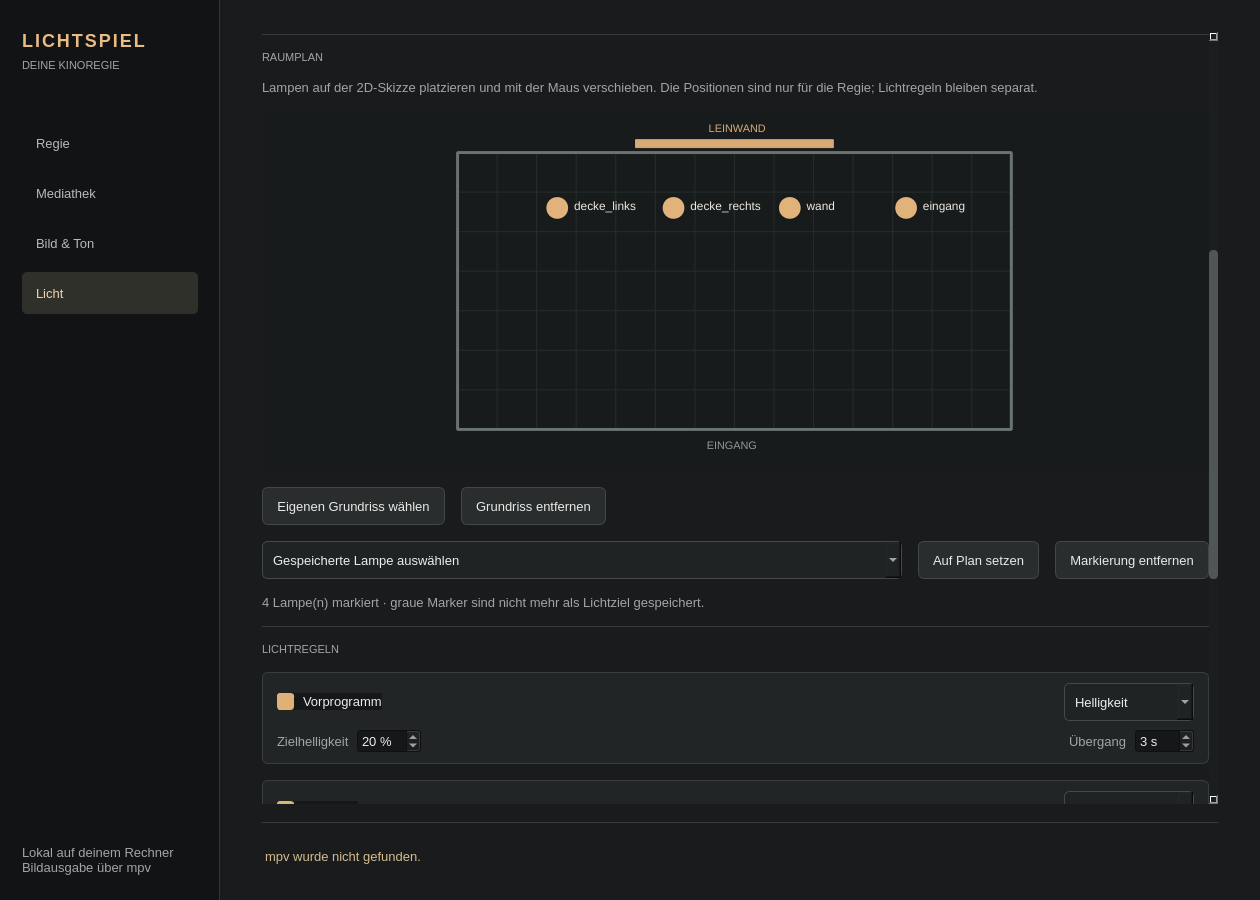
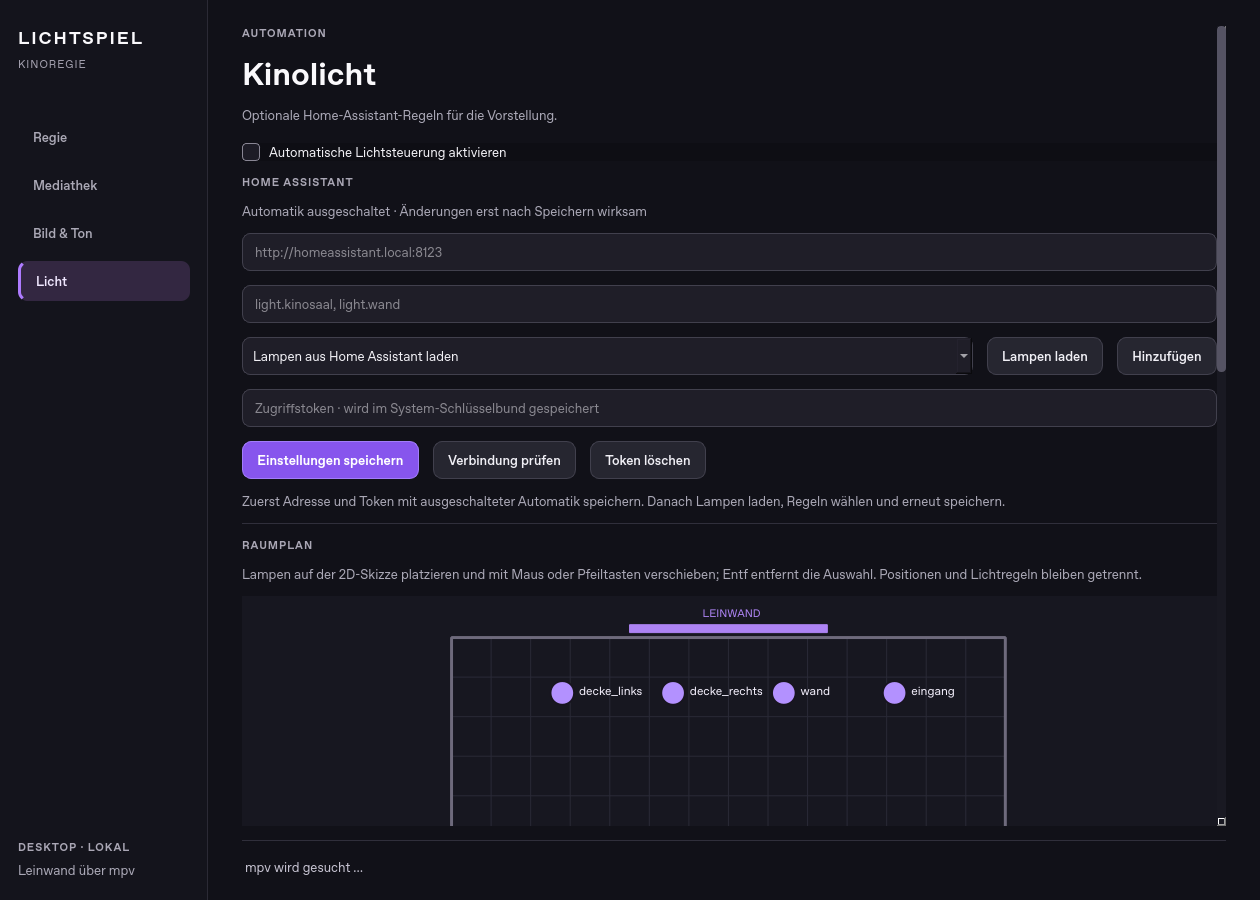
Refine native control room visual system

diff --git a/native/lichtspiel/window.py b/native/lichtspiel/window.py
@@ -74,6 +74,7 @@ def button(label: str, handler, kind: str = "") -> QPushButton:
 def label(text: str, kind: str = "") -> QLabel:
     control = QLabel(text)
     control.setWordWrap(True)
+    control.setSizePolicy(QSizePolicy.Preferred, QSizePolicy.Maximum)
     if kind:
         control.setObjectName(kind)
     return control
@@ -220,13 +221,13 @@ class MainWindow(QMainWindow):
 
         sidebar = QWidget()
         sidebar.setObjectName("sidebar")
-        sidebar.setFixedWidth(220)
+        sidebar.setFixedWidth(208)
         side = QVBoxLayout(sidebar)
-        side.setContentsMargins(22, 30, 22, 25)
+        side.setContentsMargins(18, 27, 18, 22)
         side.setSpacing(8)
         side.addWidget(label("LICHTSPIEL", "brand"))
-        side.addWidget(label("DEINE KINOREGIE", "brandCaption"))
-        side.addSpacing(42)
+        side.addWidget(label("KINOREGIE", "brandCaption"))
+        side.addSpacing(38)
         self.nav_buttons = []
         for index, title in enumerate(("Regie", "Mediathek", "Bild && Ton", "Licht")):
             nav = button(
@@ -236,15 +237,16 @@ class MainWindow(QMainWindow):
             side.addWidget(nav)
             self.nav_buttons.append(nav)
         side.addStretch()
-        side.addWidget(label("Lokal auf deinem Rechner\nBildausgabe über mpv", "muted"))
+        side.addWidget(label("DESKTOP · LOKAL", "eyebrow"))
+        side.addWidget(label("Leinwand über mpv", "muted"))
         layout.addWidget(sidebar)
 
         content = QWidget()
         content.setObjectName("content")
         main = QVBoxLayout(content)
         self.content_layout = main
-        main.setContentsMargins(42, 32, 42, 28)
-        main.setSpacing(18)
+        main.setContentsMargins(34, 26, 34, 21)
+        main.setSpacing(14)
         self.pages = QStackedWidget()
         scroller = QScrollArea()
         scroller.setWidgetResizable(True)
@@ -268,11 +270,12 @@ class MainWindow(QMainWindow):
         page.setObjectName("page")
         column = QVBoxLayout(page)
         column.setContentsMargins(0, 0, 0, 0)
-        column.setSpacing(16)
+        column.setSpacing(14)
+        column.setAlignment(Qt.AlignTop)
         column.addWidget(label(eyebrow.upper(), "eyebrow"))
         column.addWidget(label(title, "pageTitle"))
         column.addWidget(label(description, "muted"))
-        column.addSpacing(12)
+        column.addSpacing(6)
         self.pages.addWidget(page)
         return page, column
 
@@ -288,14 +291,18 @@ class MainWindow(QMainWindow):
         self.title_input.editingFinished.connect(self._save_title)
         column.addWidget(self.title_input)
         column.addWidget(rule())
-        workbench = QHBoxLayout()
-        workbench.setSpacing(18)
+        workbench_surface = QWidget()
+        workbench_surface.setFixedHeight(270)
+        workbench = QHBoxLayout(workbench_surface)
+        workbench.setContentsMargins(0, 0, 0, 0)
+        workbench.setSpacing(16)
         queue_column = QVBoxLayout()
         queue_column.setSpacing(10)
         queue_column.addWidget(label("ABLAUF", "eyebrow"))
         self.queue_list = QListWidget()
         self.queue_list.setAccessibleName("Ablauf")
-        self.queue_list.setMinimumHeight(220)
+        self.queue_list.setMinimumHeight(190)
+        self.queue_list.setMaximumHeight(240)
         queue_column.addWidget(self.queue_list, 1)
         row = QHBoxLayout()
         self.move_up = button("Nach oben", lambda: self._move_queue(-1))
@@ -306,28 +313,32 @@ class MainWindow(QMainWindow):
         row.addStretch()
         queue_column.addLayout(row)
         workbench.addLayout(queue_column, 3)
-        stage_column = QVBoxLayout()
+        stage_card = QFrame()
+        stage_card.setObjectName("stageCard")
+        stage_card.setMaximumHeight(260)
+        stage_column = QVBoxLayout(stage_card)
+        stage_column.setContentsMargins(14, 13, 14, 13)
         stage_column.setSpacing(10)
-        stage_column.addWidget(label("LEINWANDBILD", "eyebrow"))
+        stage_column.addWidget(label("LEINWAND · KONTROLLBILD", "eyebrow"))
         self.stage_preview = PreviewFrame()
         self.stage_preview.setMinimumWidth(230)
-        self.stage_preview.setFixedHeight(220)
+        self.stage_preview.setFixedHeight(175)
         self.stage_preview.activated.connect(self._show_preview_dialog)
         stage_column.addWidget(self.stage_preview)
-        stage_column.addWidget(
-            label("Kontrollbild · Doppelklick für Großansicht", "hint")
-        )
+        stage_column.addWidget(label("Doppelklick für Großansicht", "hint"))
         stage_column.addStretch()
-        workbench.addLayout(stage_column, 2)
-        column.addLayout(workbench, 1)
+        workbench.addWidget(stage_card, 2)
+        column.addWidget(workbench_surface)
         self.readiness = label("Startprüfung ausstehend", "hint")
-        column.addWidget(self.readiness)
-        column.addWidget(button("Jetzt prüfen", self._check_readiness))
+        readiness_row = QHBoxLayout()
+        readiness_row.addWidget(self.readiness, 1)
+        readiness_row.addWidget(button("Wiedergabe prüfen", self._check_readiness))
+        column.addLayout(readiness_row)
         column.addWidget(rule())
         self.transport_surface = QWidget()
         self.transport_surface.setObjectName("transportSurface")
         transport_column = QVBoxLayout(self.transport_surface)
-        transport_column.setContentsMargins(0, 12, 0, 0)
+        transport_column.setContentsMargins(0, 10, 0, 0)
         transport_column.setSpacing(10)
         self.recovery_card = QFrame()
         self.recovery_card.setObjectName("recoveryCard")
@@ -353,7 +364,7 @@ class MainWindow(QMainWindow):
         preview_column = QVBoxLayout()
         preview_column.setSpacing(4)
         preview_header = QHBoxLayout()
-        self.preview_caption = label("VORSCHAU", "eyebrow")
+        self.preview_caption = label("LIVE-MONITOR", "eyebrow")
         self.preview_caption.setWordWrap(False)
         preview_header.addWidget(self.preview_caption)
         preview_header.addStretch()
@@ -459,7 +470,14 @@ class MainWindow(QMainWindow):
             "Dateien bleiben an ihrem Speicherort. Der Ablauf enthält Verweise.",
         )
         column.addWidget(label("IMPORTIERTE MEDIEN", "eyebrow"))
+        self.library_empty = label(
+            "Noch keine Medien vorhanden. Füge Videos hinzu und ordne sie anschließend im Ablauf an.",
+            "hint",
+        )
+        column.addWidget(self.library_empty)
         self.library_list = QListWidget()
+        self.library_list.setMinimumHeight(240)
+        self.library_list.setMaximumHeight(380)
         self.library_list.itemDoubleClicked.connect(lambda _item: self._add_to_queue())
         self.library_list.currentRowChanged.connect(self._library_selection)
         column.addWidget(self.library_list, 1)
@@ -468,7 +486,10 @@ class MainWindow(QMainWindow):
         row.addWidget(self.import_button)
         self.add_queue_button = button("Zum Ablauf", self._add_to_queue)
         row.addWidget(self.add_queue_button)
-        row.addWidget(button("Aus Mediathek entfernen", self._remove_library))
+        self.remove_library_button = button(
+            "Aus Mediathek entfernen", self._remove_library
+        )
+        row.addWidget(self.remove_library_button)
         row.addStretch()
         column.addLayout(row)
         category_row = QHBoxLayout()
@@ -1148,6 +1169,9 @@ class MainWindow(QMainWindow):
             min(selected_library, self.library_list.count() - 1)
         )
         self.library_list.blockSignals(False)
+        has_media = self.library_list.count() > 0
+        self.library_list.setVisible(has_media)
+        self.library_empty.setVisible(not has_media)
         self.queue_list.clear()
         for index, media in enumerate(queued_media(self.project)):
             self.queue_list.addItem(
@@ -1169,6 +1193,10 @@ class MainWindow(QMainWindow):
         )
 
     def _library_selection(self, row: int):
+        can_edit = not self.player.active() and 0 <= row < len(self.project["library"])
+        self.add_queue_button.setEnabled(can_edit)
+        self.remove_library_button.setEnabled(can_edit)
+        self.category_combo.setEnabled(can_edit)
         self.category_combo.blockSignals(True)
         category = (
             self.project["library"][row].get("category", "Film")
@@ -1659,8 +1687,10 @@ class MainWindow(QMainWindow):
         self.choose_background_button.setEnabled(not active)
         self.clear_background_button.setEnabled(not active)
         self.import_button.setEnabled(not active and not self.import_pending)
-        self.add_queue_button.setEnabled(not active)
-        self.category_combo.setEnabled(not active)
+        has_selection = 0 <= self.library_list.currentRow() < len(self.project["library"])
+        self.add_queue_button.setEnabled(not active and has_selection)
+        self.remove_library_button.setEnabled(not active and has_selection)
+        self.category_combo.setEnabled(not active and has_selection)
         self.start_button.setEnabled(
             not active
             and not self.import_pending

diff --git a/native/lichtspiel/style.py b/native/lichtspiel/style.py
@@ -1,50 +1,55 @@
-"""Restrained Qt widget styling; no web renderer is used."""
+"""Quiet, high-contrast styling for the native control room."""
 
 STYLESHEET = """
-QMainWindow, QWidget { background: #151718; color: #ebece9; font-family: "Arial"; font-size: 13px; }
-QWidget#page { background: #191b1c; }
+QMainWindow, QWidget { background: #0e0e14; color: #f1f0f5; font-family: "Inter", "SF Pro Text", "Segoe UI", "Arial"; font-size: 13px; }
+QWidget#page, QWidget#content, QStackedWidget { background: #111118; }
 QLabel { background: transparent; }
-QWidget#sidebar { background: #111314; border-right: 1px solid #313536; }
-QWidget#content { background: #191b1c; }
-QLabel#brand { color: #e8bc83; font-size: 18px; font-weight: 700; letter-spacing: 2px; }
-QLabel#brandCaption, QLabel#eyebrow { color: #a0a6a4; font-size: 11px; }
-QLabel#pageTitle { color: #f4f2ed; font-size: 26px; font-weight: 600; }
-QLabel#sectionTitle { color: #f1eee8; font-size: 16px; font-weight: 600; }
-QLabel#liveTitle { color: #f5f1e9; font-size: 19px; font-weight: 600; }
-QLabel#timePrimary { color: #f0e9db; font-family: "SF Mono", "Consolas", "DejaVu Sans Mono"; font-size: 11px; }
-QLabel#timeSecondary { color: #aeb5b2; font-family: "SF Mono", "Consolas", "DejaVu Sans Mono"; font-size: 10px; }
-QLabel#muted, QLabel#hint { color: #a0a6a4; line-height: 1.5; }
-QLabel#status { color: #d5bb8f; padding: 8px 0; }
-QPushButton { background: #292d2e; color: #e9eae7; border: 1px solid #424748; border-radius: 6px; padding: 9px 14px; min-height: 18px; }
-QPushButton:hover { background: #353a3b; border-color: #687070; }
-QPushButton:disabled { color: #6f7574; background: #222526; border-color: #333738; }
-QPushButton#primary { background: #dfb077; color: #211b15; border-color: #dfb077; font-weight: 700; }
-QPushButton#primary:hover { background: #efc18a; }
-QPushButton#primary:disabled { background: #343838; color: #8d9491; border-color: #454b49; }
-QPushButton#danger { color: #e9b0a6; }
-QPushButton#previewExpand { min-height: 16px; padding: 0; border: none; background: transparent; color: #d2b38a; font-size: 16px; }
-QPushButton#previewExpand:hover { color: #f4d3a4; background: #303535; }
-QPushButton#nav { background: transparent; border: none; border-radius: 5px; text-align: left; padding: 12px 14px; color: #b4bbba; }
-QPushButton#nav:hover { background: #242829; }
-QPushButton#nav:checked { background: #30302b; color: #f1d4aa; }
-QLineEdit, QComboBox, QDateTimeEdit { background: #202324; color: #eceeea; border: 1px solid #444949; border-radius: 5px; padding: 8px 10px; min-height: 20px; selection-background-color: #ab8054; }
-QLineEdit:focus, QComboBox:focus, QDateTimeEdit:focus, QListWidget:focus { border: 1px solid #c79b68; }
-QComboBox QAbstractItemView { background: #25292a; color: #eceeea; selection-background-color: #604d35; }
-QListWidget { background: #202324; border: 1px solid #383d3e; border-radius: 6px; padding: 5px; outline: none; }
-QListWidget::item { padding: 11px 10px; border-bottom: 1px solid #303536; }
-QListWidget::item:selected { background: #4b4438; color: #fff5e7; }
-QFrame#rule { background: #363b3c; border: none; max-height: 1px; }
-QFrame#liveCard { background: #202324; border: 1px solid #3d4242; border-radius: 7px; }
-QFrame#ruleCard { background: #222526; border: 1px solid #383e3e; border-radius: 6px; }
-QCheckBox { spacing: 9px; }
-QCheckBox::indicator { width: 15px; height: 15px; border: 1px solid #757b77; border-radius: 3px; background: #1b1e1e; }
-QCheckBox::indicator:checked { background: #dfb077; border-color: #dfb077; }
-QProgressBar { border: none; background: #444948; border-radius: 3px; }
-QProgressBar#clipProgress { min-height: 7px; max-height: 7px; }
-QProgressBar#clipProgress::chunk { background: #e1b37b; border-radius: 3px; }
+QWidget#sidebar { background: #14141c; border-right: 1px solid #2b2a35; }
+QLabel#brand { color: #faf9fc; font-size: 18px; font-weight: 800; letter-spacing: 2px; }
+QLabel#brandCaption { color: #a29fad; font-size: 11px; letter-spacing: 1px; }
+QLabel#eyebrow { color: #aaa7b5; font-size: 11px; font-weight: 650; letter-spacing: 1px; }
+QLabel#pageTitle { color: #faf9fc; font-size: 32px; font-weight: 700; }
+QLabel#sectionTitle { color: #f3f2f7; font-size: 16px; font-weight: 650; }
+QLabel#liveTitle { color: #faf9fc; font-size: 21px; font-weight: 650; }
+QLabel#timePrimary { color: #e7e4ef; font-family: "SF Mono", "Consolas", "DejaVu Sans Mono"; font-size: 11px; }
+QLabel#timeSecondary { color: #aaa8b6; font-family: "SF Mono", "Consolas", "DejaVu Sans Mono"; font-size: 10px; }
+QLabel#muted, QLabel#hint { color: #aaa8b6; }
+QLabel#status { color: #c5c2d0; padding: 4px 0; }
+QPushButton { background: #262630; color: #f0eff5; border: 1px solid #41404d; border-radius: 9px; padding: 9px 14px; min-height: 18px; font-weight: 550; }
+QPushButton:hover { background: #33323e; border-color: #737082; }
+QPushButton:pressed { background: #1e1d29; }
+QPushButton:focus { border: 1px solid #a886fa; }
+QPushButton:disabled { color: #81808d; background: #1d1d26; border-color: #32313d; }
+QPushButton#primary { background: #8755ed; color: #fff; border-color: #a27dfa; font-weight: 700; }
+QPushButton#primary:hover { background: #9a6bf3; border-color: #c0a2ff; }
+QPushButton#primary:disabled { background: #332c42; color: #91899e; border-color: #433a52; }
+QPushButton#danger { color: #ffb9bc; border-color: #765359; }
+QPushButton#danger:hover { background: #40282e; }
+QPushButton#previewExpand { min-height: 16px; padding: 0; border: none; background: transparent; color: #c4a7ff; font-size: 16px; }
+QPushButton#previewExpand:hover { color: #e0d1ff; background: #343040; }
+QPushButton#nav { background: transparent; border: none; border-radius: 9px; text-align: left; padding: 11px 15px; color: #aaa8b5; font-size: 13px; }
+QPushButton#nav:hover { background: #24232e; color: #f0eef7; }
+QPushButton#nav:checked { background: #332741; color: #f0e7ff; border-left: 3px solid #ae7bff; }
+QLineEdit, QComboBox, QDateTimeEdit, QSpinBox { background: #1f1e28; color: #f1f0f5; border: 1px solid #41404d; border-radius: 8px; padding: 8px 10px; min-height: 20px; selection-background-color: #7645d9; }
+QLineEdit:focus, QComboBox:focus, QDateTimeEdit:focus, QSpinBox:focus, QListWidget:focus { border: 1px solid #a886fa; }
+QComboBox QAbstractItemView { background: #272633; color: #f1f0f5; selection-background-color: #604098; }
+QListWidget { background: #191922; border: 1px solid #383744; border-radius: 10px; padding: 5px; outline: none; }
+QListWidget::item { padding: 11px 10px; border-bottom: 1px solid #2c2b37; }
+QListWidget::item:hover { background: #282735; }
+QListWidget::item:selected { background: #483365; color: #fff; border-radius: 5px; }
+QFrame#rule { background: #302f3b; border: none; max-height: 1px; }
+QFrame#liveCard { background: #201e2b; border: 1px solid #514760; border-radius: 12px; }
+QFrame#stageCard, QFrame#recoveryCard { background: #1e1d28; border: 1px solid #3c3b48; border-radius: 12px; }
+QFrame#ruleCard { background: #1e1d27; border: 1px solid #3a3946; border-radius: 10px; }
+QCheckBox { spacing: 9px; background: transparent; }
+QCheckBox::indicator { width: 16px; height: 16px; border: 1px solid #898694; border-radius: 4px; background: #1d1c26; }
+QCheckBox::indicator:checked { background: #9667ee; border-color: #b68eff; }
+QProgressBar { border: none; background: #41404c; border-radius: 3px; }
+QProgressBar#clipProgress { min-height: 8px; max-height: 8px; }
+QProgressBar#clipProgress::chunk { background: #ac81ff; border-radius: 3px; }
 QProgressBar#showProgress { min-height: 4px; max-height: 4px; }
-QProgressBar#showProgress::chunk { background: #8f9691; border-radius: 2px; }
-QScrollArea { background: #191b1c; border: none; }
-QScrollBar:vertical { background: #1b1e1f; width: 9px; }
-QScrollBar::handle:vertical { background: #505657; border-radius: 4px; min-height: 30px; }
+QProgressBar#showProgress::chunk { background: #b2abc3; border-radius: 2px; }
+QScrollArea { background: #111118; border: none; }
+QScrollBar:vertical { background: #191922; width: 9px; }
+QScrollBar::handle:vertical { background: #555363; border-radius: 4px; min-height: 30px; }
 """

diff --git a/native/lichtspiel/room_plan.py b/native/lichtspiel/room_plan.py
@@ -86,14 +86,14 @@ class LightMarker(QGraphicsEllipseItem):
         if len(short_name) > 18:
             short_name = short_name[:17] + "…"
         self.label = QGraphicsSimpleTextItem(short_name, self)
-        self.label.setFont(QFont("Arial", 9))
+        self.label.setFont(QFont("Segoe UI", 9))
         self.label.setPos(17, -9)
 
     def set_active(self, active: bool):
-        color = QColor("#e1b37b") if active else QColor("#77807d")
+        color = QColor("#b391ff") if active else QColor("#777583")
         self.setBrush(QBrush(color))
-        self.setPen(QPen(QColor("#171a1a"), 2))
-        self.label.setBrush(QBrush(QColor("#ece8df") if active else QColor("#9aa19f")))
+        self.setPen(QPen(QColor("#17141f"), 2))
+        self.label.setBrush(QBrush(QColor("#f2eefb") if active else QColor("#aaa8b5")))
 
     def itemChange(self, change, value):
         if change == QGraphicsItem.ItemPositionChange:
@@ -126,7 +126,7 @@ class RoomPlan(QGraphicsView):
         self.setRenderHint(QPainter.Antialiasing)
         self.setHorizontalScrollBarPolicy(Qt.ScrollBarAlwaysOff)
         self.setVerticalScrollBarPolicy(Qt.ScrollBarAlwaysOff)
-        self.setBackgroundBrush(QBrush(QColor("#171b1b")))
+        self.setBackgroundBrush(QBrush(QColor("#171720")))
         self.markers = {}
         self.editable = True
         self.background_item = None
@@ -153,21 +153,21 @@ class RoomPlan(QGraphicsView):
         self.background_item.setZValue(-1)
 
     def _draw_room(self):
-        grid = QPen(QColor("#252c2b"), 1)
+        grid = QPen(QColor("#292936"), 1)
         for x in range(ROOM_LEFT + 40, ROOM_LEFT + ROOM_WIDTH, 40):
             self.scene().addLine(x, ROOM_TOP, x, ROOM_TOP + ROOM_HEIGHT, grid)
         for y in range(ROOM_TOP + 40, ROOM_TOP + ROOM_HEIGHT, 40):
             self.scene().addLine(ROOM_LEFT, y, ROOM_LEFT + ROOM_WIDTH, y, grid)
-        wall = QPen(QColor("#69736f"), 3)
+        wall = QPen(QColor("#6e6a7c"), 3)
         self.scene().addRect(ROOM_LEFT, ROOM_TOP, ROOM_WIDTH, ROOM_HEIGHT, wall)
         self.scene().addRect(
-            220, 27, 200, 8, QPen(QColor("#d7aa76")), QBrush(QColor("#d7aa76"))
+            220, 27, 200, 8, QPen(QColor("#ad83f4")), QBrush(QColor("#ad83f4"))
         )
-        screen = self.scene().addText("LEINWAND", QFont("Arial", 8))
-        screen.setDefaultTextColor(QColor("#d7aa76"))
+        screen = self.scene().addText("LEINWAND", QFont("Segoe UI", 8))
+        screen.setDefaultTextColor(QColor("#ad83f4"))
         screen.setPos(290, 5)
-        entrance = self.scene().addText("EINGANG", QFont("Arial", 8))
-        entrance.setDefaultTextColor(QColor("#8e9994"))
+        entrance = self.scene().addText("EINGANG", QFont("Segoe UI", 8))
+        entrance.setDefaultTextColor(QColor("#aaa8b5"))
         entrance.setPos(288, 326)
 
     def resizeEvent(self, event):

diff --git a/native/lichtspiel/widgets.py b/native/lichtspiel/widgets.py
@@ -67,9 +67,9 @@ class PreviewFrame(QWidget):
 
     def paintEvent(self, _event):
         painter = QPainter(self)
-        painter.fillRect(self.rect(), QColor("#101213"))
+        painter.fillRect(self.rect(), QColor("#09090d"))
         if self.frame.isNull():
-            painter.setPen(QColor("#a3aaa8"))
+            painter.setPen(QColor("#aaa8b5"))
             painter.drawText(
                 self.rect().adjusted(10, 10, -10, -10),
                 Qt.AlignCenter | Qt.TextWordWrap,
@@ -84,5 +84,5 @@ class PreviewFrame(QWidget):
                 y,
                 self.frame.scaled(size, Qt.KeepAspectRatio, Qt.SmoothTransformation),
             )
-        painter.setPen(QColor("#444a49"))
+        painter.setPen(QColor("#454350"))
         painter.drawRect(self.rect().adjusted(0, 0, -1, -1))

diff --git a/README.md b/README.md
@@ -37,7 +37,7 @@ Für Heimkinos, Vereine und eigene Filmprojekte. Lokal auf deinem Rechner, ohne 
 **Native Desktop-Vorschau:** Der Umbau auf eine Oberfläche aus Qt Widgets läuft. Sie verwendet keinen Chromium-Renderer; mpv bleibt der getrennte Player für die Leinwand. [Start, Funktionen und Grenzen der Qt-Version →](native/README.md)
 
 <p align="center">
-  <img src="docs/assets/native-control.png" alt="Qt-Vorschau der nativen Lichtspiel-Regie mit Ablauf und fest sichtbaren Vorführtasten" width="100%">
+  <img src="docs/assets/native-preview.png" alt="Native Lichtspiel-Regie mit Ablauf, Leinwandvorschau und fest sichtbaren Vorführtasten" width="100%">
 </p>
 <p align="center"><sub>Qt-Regie als Entwicklungsvorschau, unter Linux mit Beispieldaten aufgenommen. Die bisherige Electron-Version bleibt während der Geräteprüfung verfügbar.</sub></p>
 
